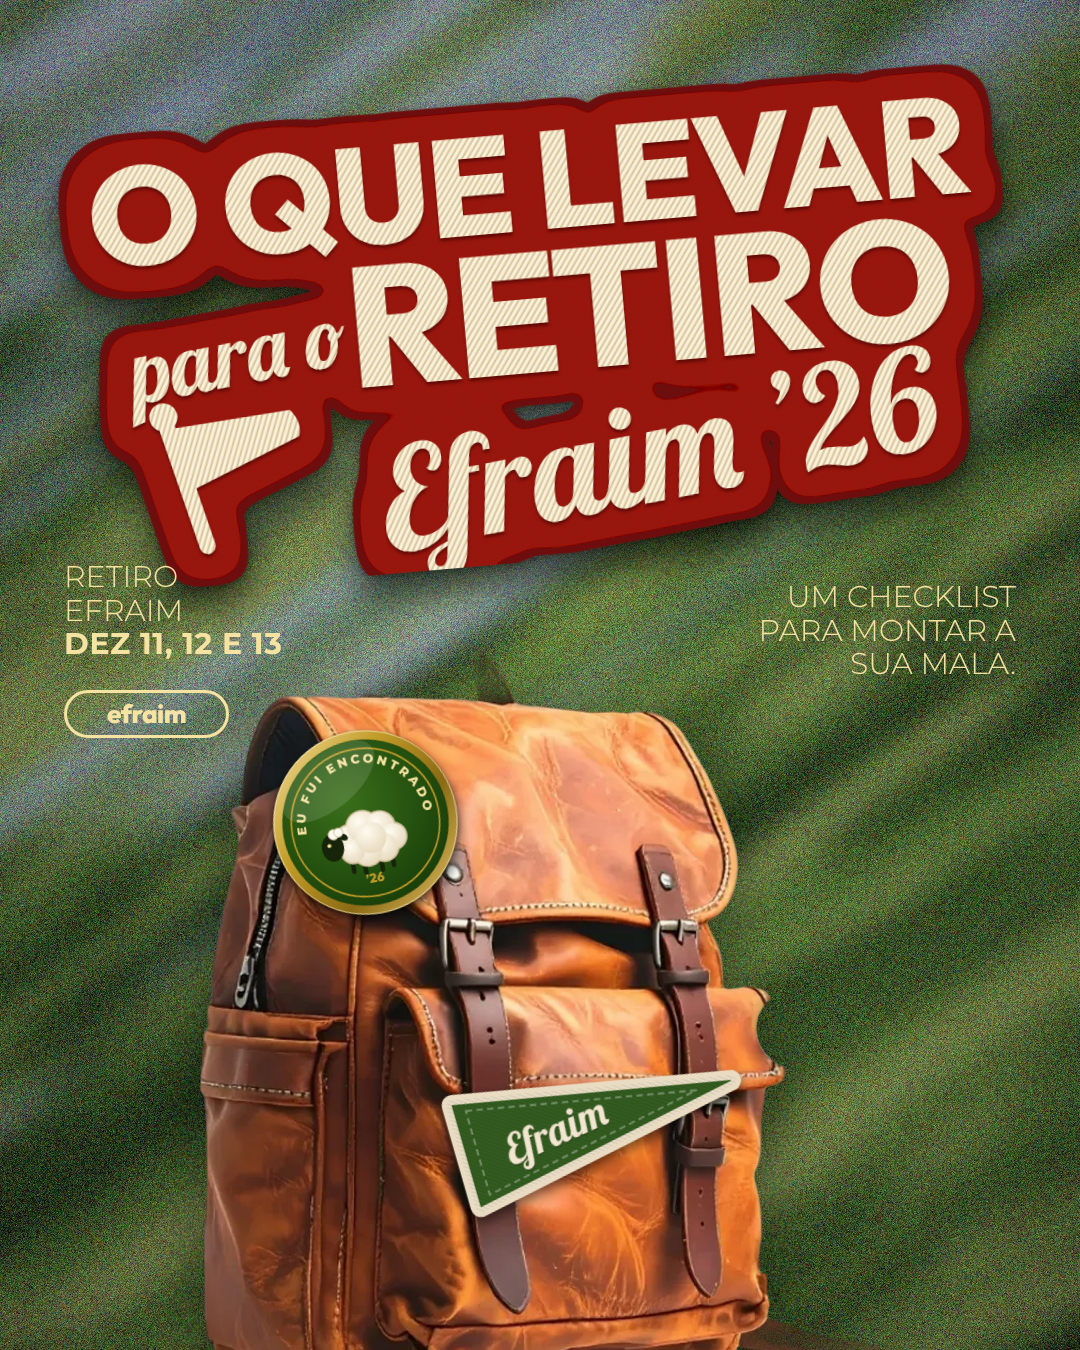
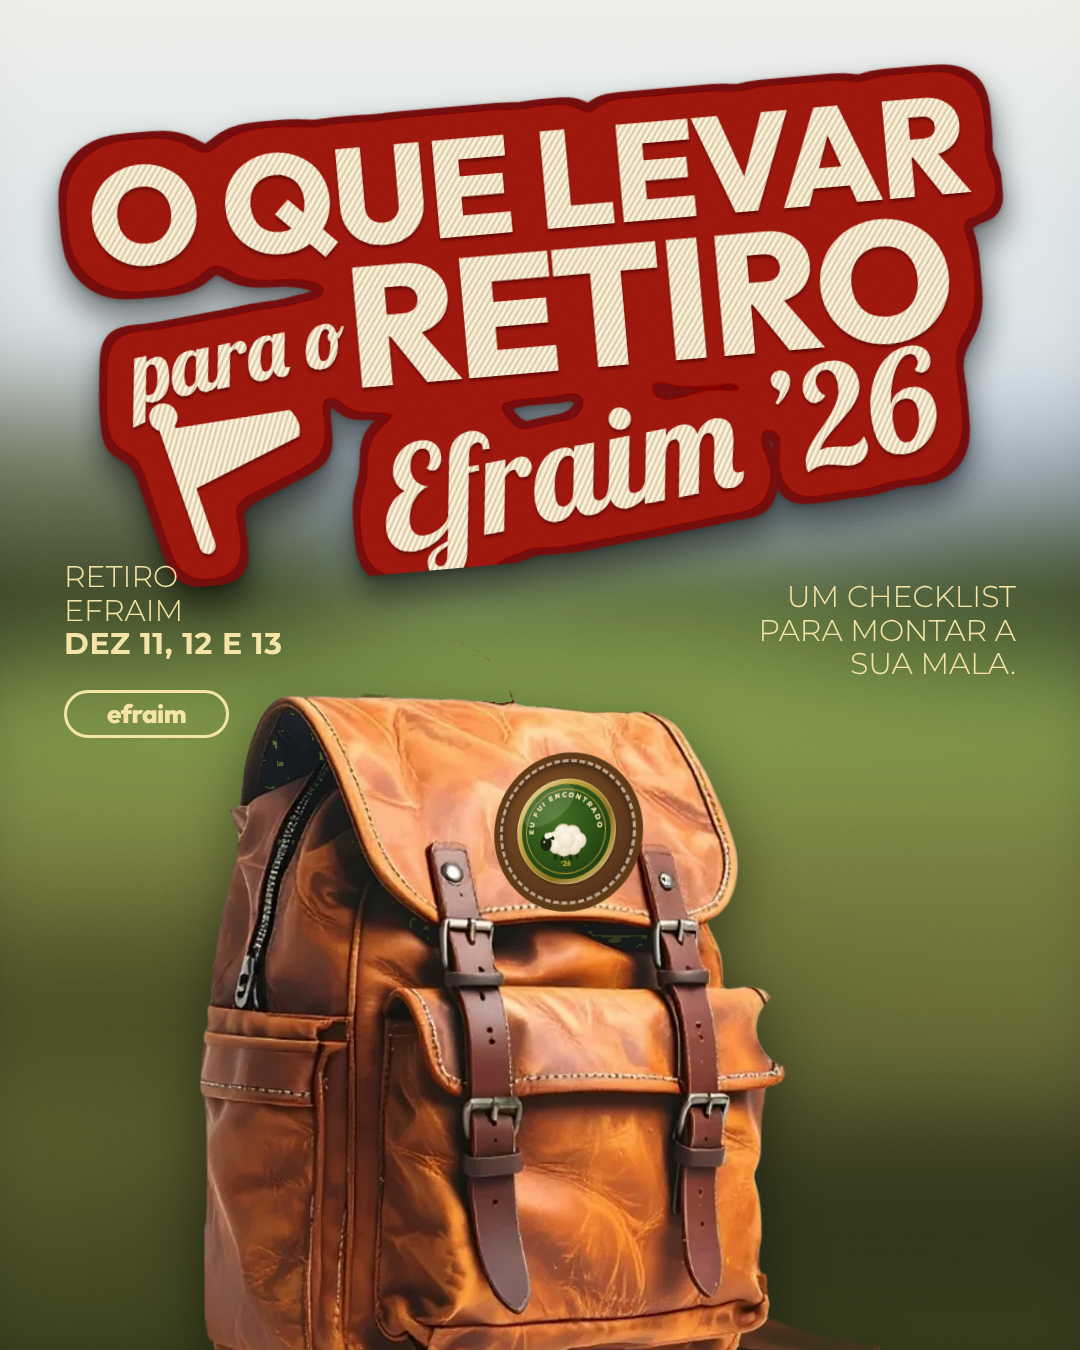
O que levar: capa sem bandeirinha, broche costurado na mochila, fundo de campo desfocado
Claude-Session: https://claude.ai/code/session_01LeUD47ZwT7dCEC6s1yGkTC

diff --git a/retiro-efraim/artes/carrossel-o-que-levar/01-capa.html b/retiro-efraim/artes/carrossel-o-que-levar/01-capa.html
@@ -1,9 +1,11 @@
 <!doctype html><meta charset="utf-8"><link rel="stylesheet" href="levar.css">
 <svg width="0" height="0" style="position:absolute"><defs><pattern id="cet" width="5" height="5" patternUnits="userSpaceOnUse" patternTransform="rotate(35)"><rect width="5" height="5" fill="#fff" opacity=".07"/><rect y="2.5" width="5" height="2.5" fill="#000" opacity=".07"/></pattern></defs></svg>
-<div class="arte">
-  <img class="bg" src="../../fundos/diagonal-feed.jpg" alt="">
+<div class="arte grao">
+  <img class="borrado" src="../../fundos/paisagem-feed.jpg" alt="" style="filter:blur(48px) saturate(.85) brightness(1.06)">
+  <div class="abs" style="inset:0;background:linear-gradient(180deg,rgba(246,244,236,.9) 0%,rgba(240,240,232,.55) 24%,rgba(240,240,232,0) 44%),linear-gradient(0deg,rgba(14,28,6,.5),transparent 40%)"></div>
   <img class="abs" src="../../elementos/mochila-couro.png" alt="" style="left:200px;top:640px;width:680px;filter:drop-shadow(0 20px 30px rgba(0,0,0,.45))">
-  <svg class="abs" viewBox="0 0 300 300" style="position:absolute;left:268px;top:725px;width:195px;transform:rotate(-10deg);filter:drop-shadow(0 6px 6px rgba(0,0,0,.5)) drop-shadow(0 2px 2px rgba(0,0,0,.35))" aria-label="Broche Eu fui encontrado">
+  <div class="abs" style="left:492px;top:758px;width:146px;height:146px;border-radius:50%;background:radial-gradient(circle at 40% 35%,#7A4C22,#55331A 70%,#3E2410);border:3px dashed rgba(243,230,208,.6);box-shadow:0 0 0 7px #5A3716,inset 0 3px 6px rgba(0,0,0,.45),0 3px 5px rgba(40,15,0,.5);transform:perspective(600px) rotateY(-22deg) rotateX(6deg) rotate(-4deg)"></div>
+  <svg class="abs" viewBox="0 0 300 300" style="left:509px;top:775px;width:112px;transform:perspective(600px) rotateY(-22deg) rotateX(6deg) rotate(-4deg);filter:drop-shadow(0 1px 1px rgba(40,15,0,.6)) sepia(.12) saturate(.95) brightness(.97)" aria-label="Broche Eu fui encontrado">
     <defs>
       <linearGradient id="aro" x1="0" y1="0" x2="1" y2="1"><stop offset="0" stop-color="#F7E3A4"/><stop offset=".35" stop-color="#C29B27"/><stop offset=".65" stop-color="#8A6A14"/><stop offset="1" stop-color="#E8C76A"/></linearGradient>
       <radialGradient id="esmalte" cx=".4" cy=".35" r=".75"><stop offset="0" stop-color="#3A6E1A"/><stop offset=".6" stop-color="#24500F"/><stop offset="1" stop-color="#173A08"/></radialGradient>
@@ -29,7 +31,7 @@
     <g clip-path="url(#disco)"><ellipse cx="105" cy="78" rx="85" ry="42" fill="#fff" opacity=".13" transform="rotate(-30 105 78)"/></g>
     <circle cx="150" cy="150" r="141" fill="none" stroke="#FFF4CF" stroke-width="1.5" opacity=".7"/>
   </svg>
-  <svg viewBox="0 0 420 190" style="position:absolute;left:450px;top:1050px;width:300px;transform:rotate(-16deg);filter:drop-shadow(0 6px 6px rgba(0,0,0,.5))"><path d="M18 14 L404 88 Q412 95 404 102 L18 176 Q8 178 8 166 V24 Q8 12 18 14Z" fill="#24500F" stroke="#E9DCC2" stroke-width="14" stroke-linejoin="round"/><path d="M18 14 L404 88 Q412 95 404 102 L18 176 Q8 178 8 166 V24 Q8 12 18 14Z" fill="url(#cet)"/><path d="M32 34 L350 95 L32 156Z" fill="none" stroke="rgba(255,255,255,.3)" stroke-width="3" stroke-dasharray="9 6" stroke-linejoin="round"/><text x="70" y="112" transform="rotate(-8 170 95)" font-family="Lobster" font-size="58" fill="#F3E6D0" style="filter:drop-shadow(0 2px 0 rgba(0,0,0,.3))">Efraim</text></svg>
+  
   <svg class="abs" viewBox="0 0 1000 470" style="left:40px;top:90px;width:1000px;transform:rotate(-5deg);filter:drop-shadow(0 18px 16px rgba(0,0,0,.45)) drop-shadow(0 3px 3px rgba(0,0,0,.35))" aria-label="O que levar para o Retiro Efraim 26">
   <defs>
     <pattern id="linhaT" width="5" height="5" patternUnits="userSpaceOnUse" patternTransform="rotate(-55)"><rect width="5" height="5" fill="#F1E3C4"/><rect width="5" height="1.6" fill="#FFF8E6"/><rect y="3" width="5" height="1.2" fill="#CDB98F"/></pattern>
